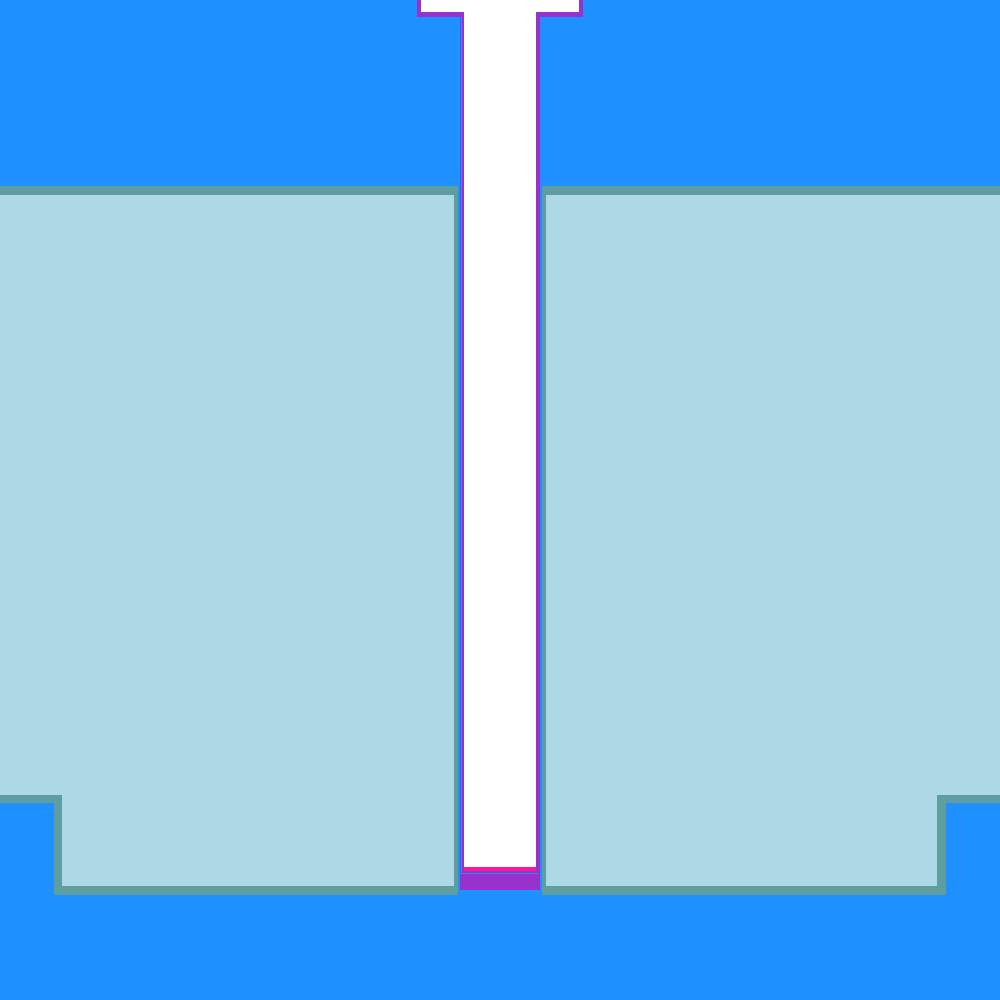
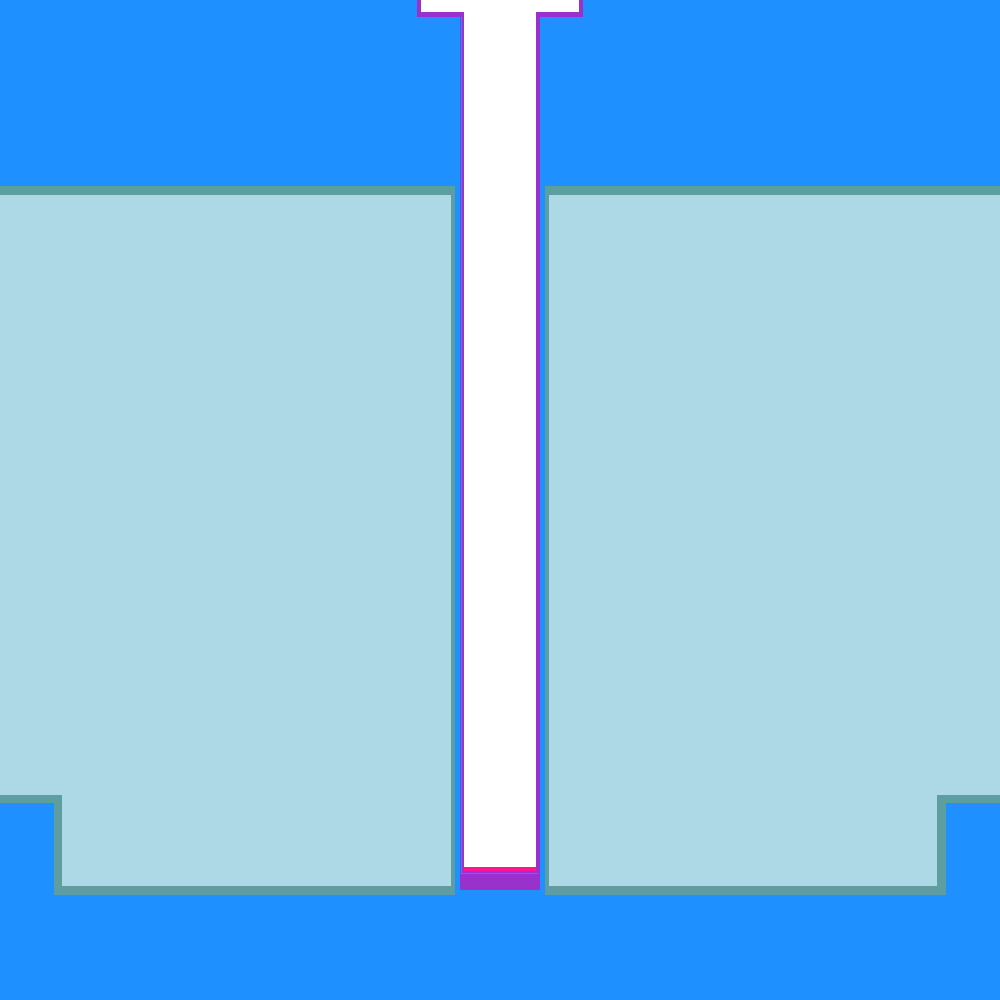
Offset the water and wall around the chamber toward each cavity
As in the full design, the cylinders of the water and the aluminum wall
between the target chamber and each cavity are centered 0.47752 cm toward
that cavity, so the water there is 0.79 cm thick (it was 0.31 cm). Both
models: four c/z (ZCylinder x0) surfaces instead of two, the water around
and below the chamber split at x = 0 (cells 15-18), and the volumes
recalculated (each cassette region is now 153.18 L). The geometry plots
and the cassette outline in the maps follow.

Changed region(s): [[0.527, 0.186, 0.558, 0.899], [0.434, 0.186, 0.465, 0.899]]

diff --git a/openmc/artemis.py b/openmc/artemis.py
@@ -80,6 +80,7 @@ R_BEAM_IN, R_BEAM_OUT = 3.9624, 4.5974   # beam tube
 R_BORE = 5.4483                          # target chamber inner radius
 R_WALL_1, R_WATER, R_WALL_2 = 5.7277, 5.8674, 6.096
 R_GAP, R_CAV_WALL = 6.40969, 7.06501     # water around the chamber, cavity wall around it
+X_OFF = 0.47752                          # ... with their axes at x = +-X_OFF, toward each cavity
 R_UP_IN, R_UP_OUT = 12.065, 12.7         # upstream tube
 
 # Target chamber and upstream section: heights
@@ -224,18 +225,9 @@ def get_surfaces():
         (
             "cz",
             101,
-            [
-                R_BEAM_IN,
-                R_BEAM_OUT,
-                R_BORE,
-                R_WALL_1,
-                R_WATER,
-                R_WALL_2,
-                R_GAP,
-                R_CAV_WALL,
-                R_UP_IN,
-                R_UP_OUT,
-            ],
+            [(r, 0.0) for r in [R_BEAM_IN, R_BEAM_OUT, R_BORE, R_WALL_1, R_WATER, R_WALL_2]]
+            + [(r, x0) for r in [R_GAP, R_CAV_WALL] for x0 in [-X_OFF, X_OFF]]
+            + [(r, 0.0) for r in [R_UP_IN, R_UP_OUT]],
         ),
         ("px", 201, [XC0] + x_planes + [-v for v in x_planes]),
         ("py", 301, y_planes + [-v for v in y_planes]),
@@ -272,7 +264,7 @@ def get_surfaces():
         ),
     ]
     make = {
-        "cz": lambda n, v: openmc.ZCylinder(surface_id=n, r=v),
+        "cz": lambda n, v: openmc.ZCylinder(surface_id=n, x0=v[1], r=v[0]),
         "px": lambda n, v: openmc.XPlane(surface_id=n, x0=v),
         "py": lambda n, v: openmc.YPlane(surface_id=n, y0=v),
         "pz": lambda n, v: openmc.ZPlane(surface_id=n, z0=v),
@@ -307,8 +299,6 @@ CHAMBER_CELLS = [
     (12, SS,   R_BEAM_OUT, R_UP_OUT,   Z_UP1,     Z_UP2,     'Upstream tube top plate'),
     (13, VOID, None,       R_BEAM_IN,  Z_UP1,     GROUND,    'Vacuum in beam tube'),
     (14, SS,   R_BEAM_IN,  R_BEAM_OUT, Z_UP1,     GROUND,    'Beam tube'),
-    (15, H2O,  R_WALL_2,   R_GAP,      Z_END,     Z_CAV1,    'Water between chamber and cavities'),
-    (16, H2O,  None,       R_GAP,      Z_CAV0,    Z_END,     'Water below chamber, in cavities'),
 ]
 # fmt: on
 
@@ -328,8 +318,8 @@ def get_geometry(mats):
 
     def tube(r0, r1, z0, z1):
         """Between two cylinders (r0 = None: inside r1), from z0 to z1."""
-        region = -S["cz", r1] & +S["pz", z0] & -S["pz", z1]
-        return region if r0 is None else +S["cz", r0] & region
+        region = -S["cz", (r1, 0.0)] & +S["pz", z0] & -S["pz", z1]
+        return region if r0 is None else +S["cz", (r0, 0.0)] & region
 
     def cell(number, mat, region, name):
         fill = None if mat is None else mats[mat]
@@ -338,6 +328,19 @@ def get_geometry(mats):
     # Target chamber and upstream section
     for number, mat, r0, r1, z0, z1, name in CHAMBER_CELLS:
         cell(number, mat, tube(r0, r1, z0, z1), name)
+    # The water around and below the chamber, in each cavity's half (x < 0 and x > 0), inside the
+    # water cylinder of that cavity
+    for sign, tag in [(-1, "-x"), (+1, "+x")]:
+        half = -S["px", XC0] if sign < 0 else +S["px", XC0]
+        gap = -S["cz", (R_GAP, sign * X_OFF)]
+        cell(15 + (sign > 0), H2O,
+             +S["cz", (R_WALL_2, 0.0)] & gap & half & +S["pz", Z_END] & -S["pz", Z_CAV1],
+             f"Water between chamber and cavity ({tag})")  # fmt: skip
+    for sign, tag in [(-1, "-x"), (+1, "+x")]:
+        half = -S["px", XC0] if sign < 0 else +S["px", XC0]
+        gap = -S["cz", (R_GAP, sign * X_OFF)]
+        cell(17 + (sign > 0), H2O, gap & half & +S["pz", Z_CAV0] & -S["pz", Z_END],
+             f"Water below chamber, in cavity ({tag})")  # fmt: skip
 
     # Irradiation cavities, cassette regions, and ducts, with their walls split into slabs: boxes
     # given for the +x side and mirrored for the -x side
@@ -350,7 +353,9 @@ def get_geometry(mats):
         def cl(i, mat, region, name):
             cell(base + i, mat, region, f"{name} ({tag})")
 
-        out_gap, out_wall = +S["cz", R_GAP], +S["cz", R_CAV_WALL]
+        # This cavity's water and wall cylinders, with their axes toward it
+        gap, wall = S["cz", (R_GAP, sign * X_OFF)], S["cz", (R_CAV_WALL, sign * X_OFF)]
+        out_gap, out_wall = +gap, +wall
         inner_x = +S["px", XC1] if sign > 0 else -S["px", -XC1]
         # fmt: off
         cl( 1, AIR, b(XCS, XCI, -YCI, YCI, Z_AIR0, Z_AIR1), 'Air in cavity, beyond cassette')
@@ -366,7 +371,8 @@ def get_geometry(mats):
         cl( 9, AL,  b(XC0, XCO, YCI, YCO, Z_AIR0, Z_AIR1), 'Cavity +y wall')
         cl(10, AL,  b(XC0, XCO, -YCO, -YCI, Z_AIR0, Z_AIR1), 'Cavity -y wall')
         cl(11, AL,  b(XC0, XC1, -YCI, YCI, Z_AIR0, Z_AIR1) & out_gap, 'Cavity inner wall')
-        cl(12, AL,  inner_x & tube(R_GAP, R_CAV_WALL, Z_AIR0, Z_AIR1), 'Cavity wall around chamber')
+        cl(12, AL,  inner_x & out_gap & -wall & +S['pz', Z_AIR0] & -S['pz', Z_AIR1],
+            'Cavity wall around chamber')
         cl(13, AL,  b(XCI, XCO, YDI, YCI, Z_AIR0, Z_AIR1), 'Cavity outer wall, +y of duct')
         cl(14, AL,  b(XCI, XCO, -YCI, -YDI, Z_AIR0, Z_AIR1), 'Cavity outer wall, -y of duct')
         cl(15, AL,  b(XCI, XCO, -YDI, YDI, Z_AIR0, Z_HD0), 'Cavity outer wall, below duct')
@@ -405,15 +411,15 @@ def get_geometry(mats):
         (box(XCO, XVO0, YDO, YCO, Z_CAV0, Z_CAV1), "Water, +y of horizontal duct (+x)"),
         (box(XCO, XVO0, -YDO, YDO, Z_CAV0, Z_HD0_OUT), "Water below horizontal duct (+x)"),
         (
-            box(-XVO0, XVO0, -YCO, YCO, Z_CAV1, Z_WALLS) & +S["cz", R_WALL_2],
+            box(-XVO0, XVO0, -YCO, YCO, Z_CAV1, Z_WALLS) & +S["cz", (R_WALL_2, 0.0)],
             "Water around target chamber",
         ),
         (
-            box(-XVO0, XVO0, -YCO, YCO, Z_WALLS, Z_UP2) & +S["cz", R_UP_OUT],
+            box(-XVO0, XVO0, -YCO, YCO, Z_WALLS, Z_UP2) & +S["cz", (R_UP_OUT, 0.0)],
             "Water around upstream tube",
         ),
         (
-            box(-XVO0, XVO0, -YCO, YCO, Z_UP2, GROUND) & +S["cz", R_BEAM_OUT],
+            box(-XVO0, XVO0, -YCO, YCO, Z_UP2, GROUND) & +S["cz", (R_BEAM_OUT, 0.0)],
             "Water around beam tube",
         ),
     ]
@@ -470,9 +476,9 @@ def get_geometry(mats):
 # times its height. The cross-section is the integral over x of the chord length in y, in closed
 # form piece by piece.
 # ------------------------------------------------------------------------------
-def disk_rect_area(r, x0, x1, y0, y1):
-    """Area of the rectangle [x0, x1] x [y0, y1] inside the disk of radius r about the origin."""
-    x0, x1 = max(x0, -r), min(x1, r)
+def disk_rect_area(r, x0, x1, y0, y1, xc=0.0):
+    """Area of the rectangle [x0, x1] x [y0, y1] inside the disk of radius r about (xc, 0)."""
+    x0, x1 = max(x0 - xc, -r), min(x1 - xc, r)
     if x1 <= x0:
         return 0.0
     cuts = {x0, x1}
@@ -506,7 +512,7 @@ def prism_volume(region, surfaces):
     for token in re.findall(r"-?\d+", str(region)):
         surface, negative = surfaces[abs(int(token))], token.startswith("-")
         if isinstance(surface, openmc.ZCylinder):
-            (inside if negative else outside).append(surface.r)
+            (inside if negative else outside).append((surface.r, surface.x0))
         else:
             axis = {openmc.XPlane: "x", openmc.YPlane: "y", openmc.ZPlane: "z"}[type(surface)]
             value = {"x": "x0", "y": "y0", "z": "z0"}[axis]
@@ -519,9 +525,12 @@ def prism_volume(region, surfaces):
     big = 1e6
     x0, x1 = max(lo["x"], -big), min(hi["x"], big)
     y0, y1 = max(lo["y"], -big), min(hi["y"], big)
-    area = disk_rect_area(inside[0], x0, x1, y0, y1) if inside else (x1 - x0) * (y1 - y0)
+    if inside:
+        area = disk_rect_area(inside[0][0], x0, x1, y0, y1, inside[0][1])
+    else:
+        area = (x1 - x0) * (y1 - y0)
     if outside:
-        area -= disk_rect_area(outside[0], x0, x1, y0, y1)
+        area -= disk_rect_area(outside[0][0], x0, x1, y0, y1, outside[0][1])
     return area * (hi["z"] - lo["z"])
 
 

diff --git a/plot_results.py b/plot_results.py
@@ -169,7 +169,8 @@ LABELS = {
 CASSETTE_X = (1.27, 51.181)
 CASSETTE_Y = 20.32  # half-width
 CASSETTE_Z = (16.51, 94.615)
-CASSETTE_R = 7.06501  # cavity wall around the target chamber
+CASSETTE_R = 7.06501  # cavity wall around the target chamber: its radius, about x = CASSETTE_XC
+CASSETTE_XC = 0.47752
 CASSETTE_STYLE = {"color": "dimgray", "linestyle": (0, (4, 2)), "linewidth": 1.2}
 
 # Contour levels on log scales, in each decade: 1 and 3 for the whole-geometry (pit) views, and 1, 2,
@@ -453,7 +454,7 @@ def cassette_sides(plane, at):
         segments = [([x0, x1], [y, y]), ([x0, x1], [-y, -y]), ([x1, x1], [-y, y])]
     elif plane == "xz" and abs(at) < y:
         # The bottom, top, and outer end; the inner end is the cavity wall around the chamber
-        inner = np.sqrt(CASSETTE_R**2 - at**2) if abs(at) < CASSETTE_R else x0
+        inner = CASSETTE_XC + np.sqrt(CASSETTE_R**2 - at**2) if abs(at) < CASSETTE_R else x0
         segments = [([inner, x1], [z0, z0]), ([inner, x1], [z1, z1]), ([x1, x1], [z0, z1])]
     return [([sign * x for x in xs], ys) for xs, ys in segments for sign in [1, -1]]
 
